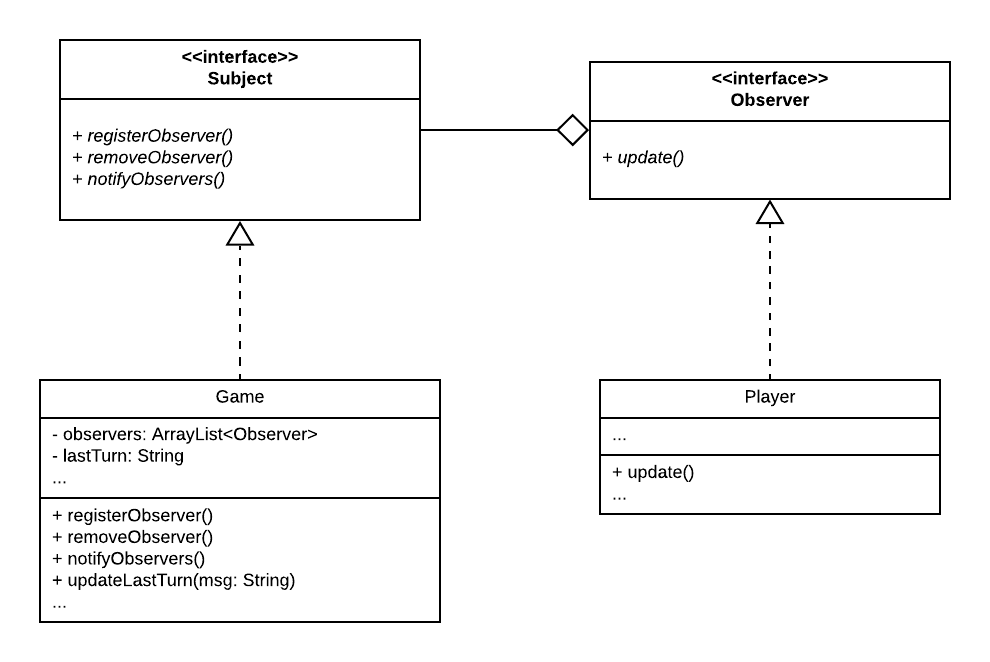
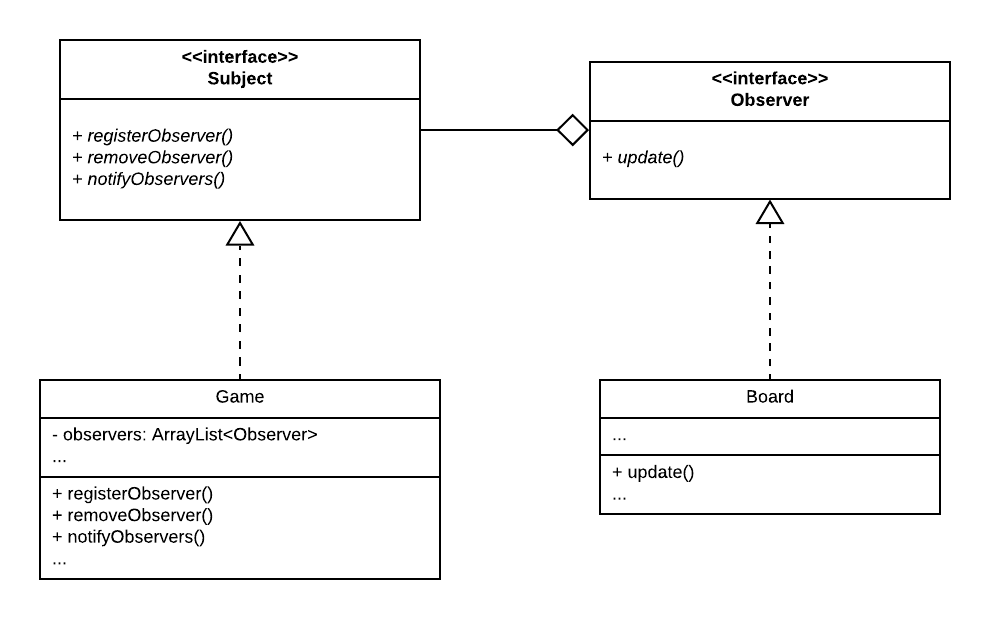
second pattern for task 1 finished

diff --git a/Assignment3/src/Game.java b/Assignment3/src/Game.java
@@ -12,7 +12,6 @@ public class Game implements Subject {
     private boolean stop = false;
     private boolean draw = false;
     private boolean hasWinner = false;
-    private String lastTurn = null;
 
     private Game(){
         board = Board.getInstance();
@@ -20,8 +19,7 @@ public class Game implements Subject {
         Player player2 = new Player(Color.BLACK, makeSet(Color.BLACK));
         players.add(player1);
         players.add(player2);
-        registerObserver(player1);
-        registerObserver(player2);
+        registerObserver(board);
     }
 
     private ArrayList<Figure> makeSet(Color colour){
@@ -76,7 +74,7 @@ public class Game implements Subject {
             return true;
         }
         else{
-            String outcome = player.preformMove(this, turn, currentRound);
+            String outcome = player.preformMove(turn, currentRound);
             if(outcome.equals("ok")){
                 return true;
             }
@@ -95,13 +93,13 @@ public class Game implements Subject {
         while(!stop){
             while (!nextTurn){
                 nextTurn = playTurn(players.get(currentPlayer));
+                notifyObservers();
             }
             if(players.get(currentPlayer).eatenFigs.contains(players.get((currentPlayer + 1)%2).getKing())){
                 hasWinner = true;
                 break;
             }
             nextTurn = false;
-            board.printBoard();
             currentPlayer = (currentPlayer + 1)%2;
             currentRound +=1;
         }
@@ -131,12 +129,7 @@ public class Game implements Subject {
     @Override
     public void notifyObservers() {
         for (Observer observer: observers) {
-            observer.update(this.lastTurn);
+            observer.update();
         }
-    }
-
-    public void updateLastTurn(String msg) {
-        this.lastTurn = msg;
-        notifyObservers();
     }
 }

diff --git a/Assignment3/src/Player.java b/Assignment3/src/Player.java
@@ -3,7 +3,7 @@ package Assignment3.src;
 import java.util.Scanner;
 import java.util.ArrayList;
 
-public class Player implements Observer{
+public class Player {
     public String name;
     private Boolean hasName = false;
     public Color colour;
@@ -45,7 +45,7 @@ public class Player implements Observer{
         return figures.get(4);
     }
 
-    public String preformMove(Game game, String move, int turnNum){
+    public String preformMove(String move, int turnNum){
         ArrayList<Figure> movables = new ArrayList<>();
         for(Figure currfig : figures){
             if(currfig.canPerformMove(move,turnNum)){
@@ -62,7 +62,6 @@ public class Player implements Observer{
         else {
             Figure f = movables.get(0);
             f.perfromMove(move, this, turnNum);
-            game.updateLastTurn(this.name + " did move: " + move);
             return "ok";
         }
     }
@@ -74,10 +73,5 @@ public class Player implements Observer{
     public void transformPawn(Pawn oldFigurine, Figure newFigurine){
         int i = figures.indexOf(oldFigurine);
         figures.set(i,newFigurine);
-    }
-
-    @Override
-    public void update(String str) {
-        System.out.println(str);
     }
 }

diff --git a/Assignment3/src/Board.java b/Assignment3/src/Board.java
@@ -4,7 +4,7 @@ import java.util.ArrayList;
 import java.util.Arrays;
 import java.util.Collections;
 
-public class Board {
+public class Board implements Observer {
 
     private static Board uniqueInstance = new Board();
 
@@ -95,5 +95,10 @@ public class Board {
 
     public void placeFigurine (Figure fig,int i, int j){
         this.getField(i, j).placeFigurine(fig);
+    }
+
+    @Override
+    public void update() {
+        this.printBoard();
     }
 }

diff --git a/Assignment3/src/Observer.java b/Assignment3/src/Observer.java
@@ -1,5 +1,5 @@
 package Assignment3.src;
 
 public interface Observer {
-    public void update(String str);
+    public void update();
 }

diff --git a/out/production/BINF4241-group18/Assignment3/ANSWERS.md b/out/production/BINF4241-group18/Assignment3/ANSWERS.md
@@ -4,29 +4,43 @@
 
 #### Pattern 1: Singleton
 
-1. **Why?** Assumption: In order for this pattern to make sense we assume that there will
- always also only be 1 Game instance. In that case there should under no circumstances exist
- a chance for two different boards to exist. If the Board is a singleton it can be guaranteed,
-  that all the figures, players etc. access the exact same board. Also, it would allow us to
-  no longer pass the board to our figure constructors because they could just get access to it by calling Board.getInstance().
-  **How?** The Board constructor is made private and thus not callable from outside the class. At application start,
-  the Board class itself calls its constructor and safes it in a private field. For any other class to get access to
-  the board instance, it has the possibility to get it via the getInstance() method, which is a static method of board.
-2. 
-Class Diagram
+**Why?** Assumption: In order for this pattern to make sense we assume that there will
+always also only be 1 Game instance. In that case there should under no circumstances exist
+a chance for two different boards to exist. If the Board is a singleton it can be guaranteed,
+that all the figures, players etc. access the exact same board. Also, it would allow us to
+no longer pass the board to our figure constructors because they could just get access to it by calling Board.getInstance().
+  
+**How?** The Board constructor is made private and thus not callable from outside the class. At application start,
+the Board class itself calls its constructor and safes it in a private field. For any other class to get access to
+the board instance, it has the possibility to get it via the getInstance() method, which is a static method of board.
+
+
+###### Class Diagram
 
 ![Class Diagram](images/Board-Singleton-Class.png "Class Diagram")
 
-3.
-Sequence Diagram
+###### Sequence Diagram
 
-![Class Diagram](images/Board-Singleton-Sequence.png "Class Diagram")
+![Sequence Diagram](images/Board-Singleton-Sequence.png "Sequence Diagram")
 
 #### Pattern 2: Observer
 
-1. Why? How? 
-2.
-3.
+**Why?** Every time a player finishes her/his turn the board should be updated.
+If you have an observer in place to do that, you could add multiple different instances to the observers that update
+something at the end of each turn. Currently there is only a 1 observer, namely the board, which prints an updated version
+after every turn. 
+
+**How?** The Game implements the Subject interface and registers the Board observer. Then, after
+every turn it calls its notifyObserver() method which currently then calls the update() method of all its
+observers. This is currently only 1, namely the board. Because the board implements the Observer interface, it has to have the
+update() method defined, which prints the current state of the board to the console.
+
+###### Class Diagram
+
+![Class Diagram](images/Observer-class.png "Class Diagram")
+
+###### Sequence Diagram
+![Sequence Diagram](images/Observer-Sequence.png "Sequence Diagram")
 
 ## Part 2
 

diff --git a/Assignment3/ANSWERS.md b/Assignment3/ANSWERS.md
@@ -5,35 +5,42 @@
 #### Pattern 1: Singleton
 
 **Why?** Assumption: In order for this pattern to make sense we assume that there will
- always also only be 1 Game instance. In that case there should under no circumstances exist
- a chance for two different boards to exist. If the Board is a singleton it can be guaranteed,
-  that all the figures, players etc. access the exact same board. Also, it would allow us to
-  no longer pass the board to our figure constructors because they could just get access to it by calling Board.getInstance().
+always also only be 1 Game instance. In that case there should under no circumstances exist
+a chance for two different boards to exist. If the Board is a singleton it can be guaranteed,
+that all the figures, players etc. access the exact same board. Also, it would allow us to
+no longer pass the board to our figure constructors because they could just get access to it by calling Board.getInstance().
   
 **How?** The Board constructor is made private and thus not callable from outside the class. At application start,
-  the Board class itself calls its constructor and safes it in a private field. For any other class to get access to
-  the board instance, it has the possibility to get it via the getInstance() method, which is a static method of board.
+the Board class itself calls its constructor and safes it in a private field. For any other class to get access to
+the board instance, it has the possibility to get it via the getInstance() method, which is a static method of board.
 
 
-Class Diagram
+###### Class Diagram
 
 ![Class Diagram](images/Board-Singleton-Class.png "Class Diagram")
 
-Sequence Diagram
+###### Sequence Diagram
 
 ![Sequence Diagram](images/Board-Singleton-Sequence.png "Sequence Diagram")
 
 #### Pattern 2: Observer
 
-**Why?**
+**Why?** Every time a player finishes her/his turn the board should be updated.
+If you have an observer in place to do that, you could add multiple different instances to the observers that update
+something at the end of each turn. Currently there is only a 1 observer, namely the board, which prints an updated version
+after every turn. 
 
-**How?**
+**How?** The Game implements the Subject interface and registers the Board observer. Then, after
+every turn it calls its notifyObserver() method which currently then calls the update() method of all its
+observers. This is currently only 1, namely the board. Because the board implements the Observer interface, it has to have the
+update() method defined, which prints the current state of the board to the console.
 
-Class Diagram
+###### Class Diagram
 
 ![Class Diagram](images/Observer-class.png "Class Diagram")
 
-Sequence Diagram
+###### Sequence Diagram
+![Sequence Diagram](images/Observer-Sequence.png "Sequence Diagram")
 
 ## Part 2
 
